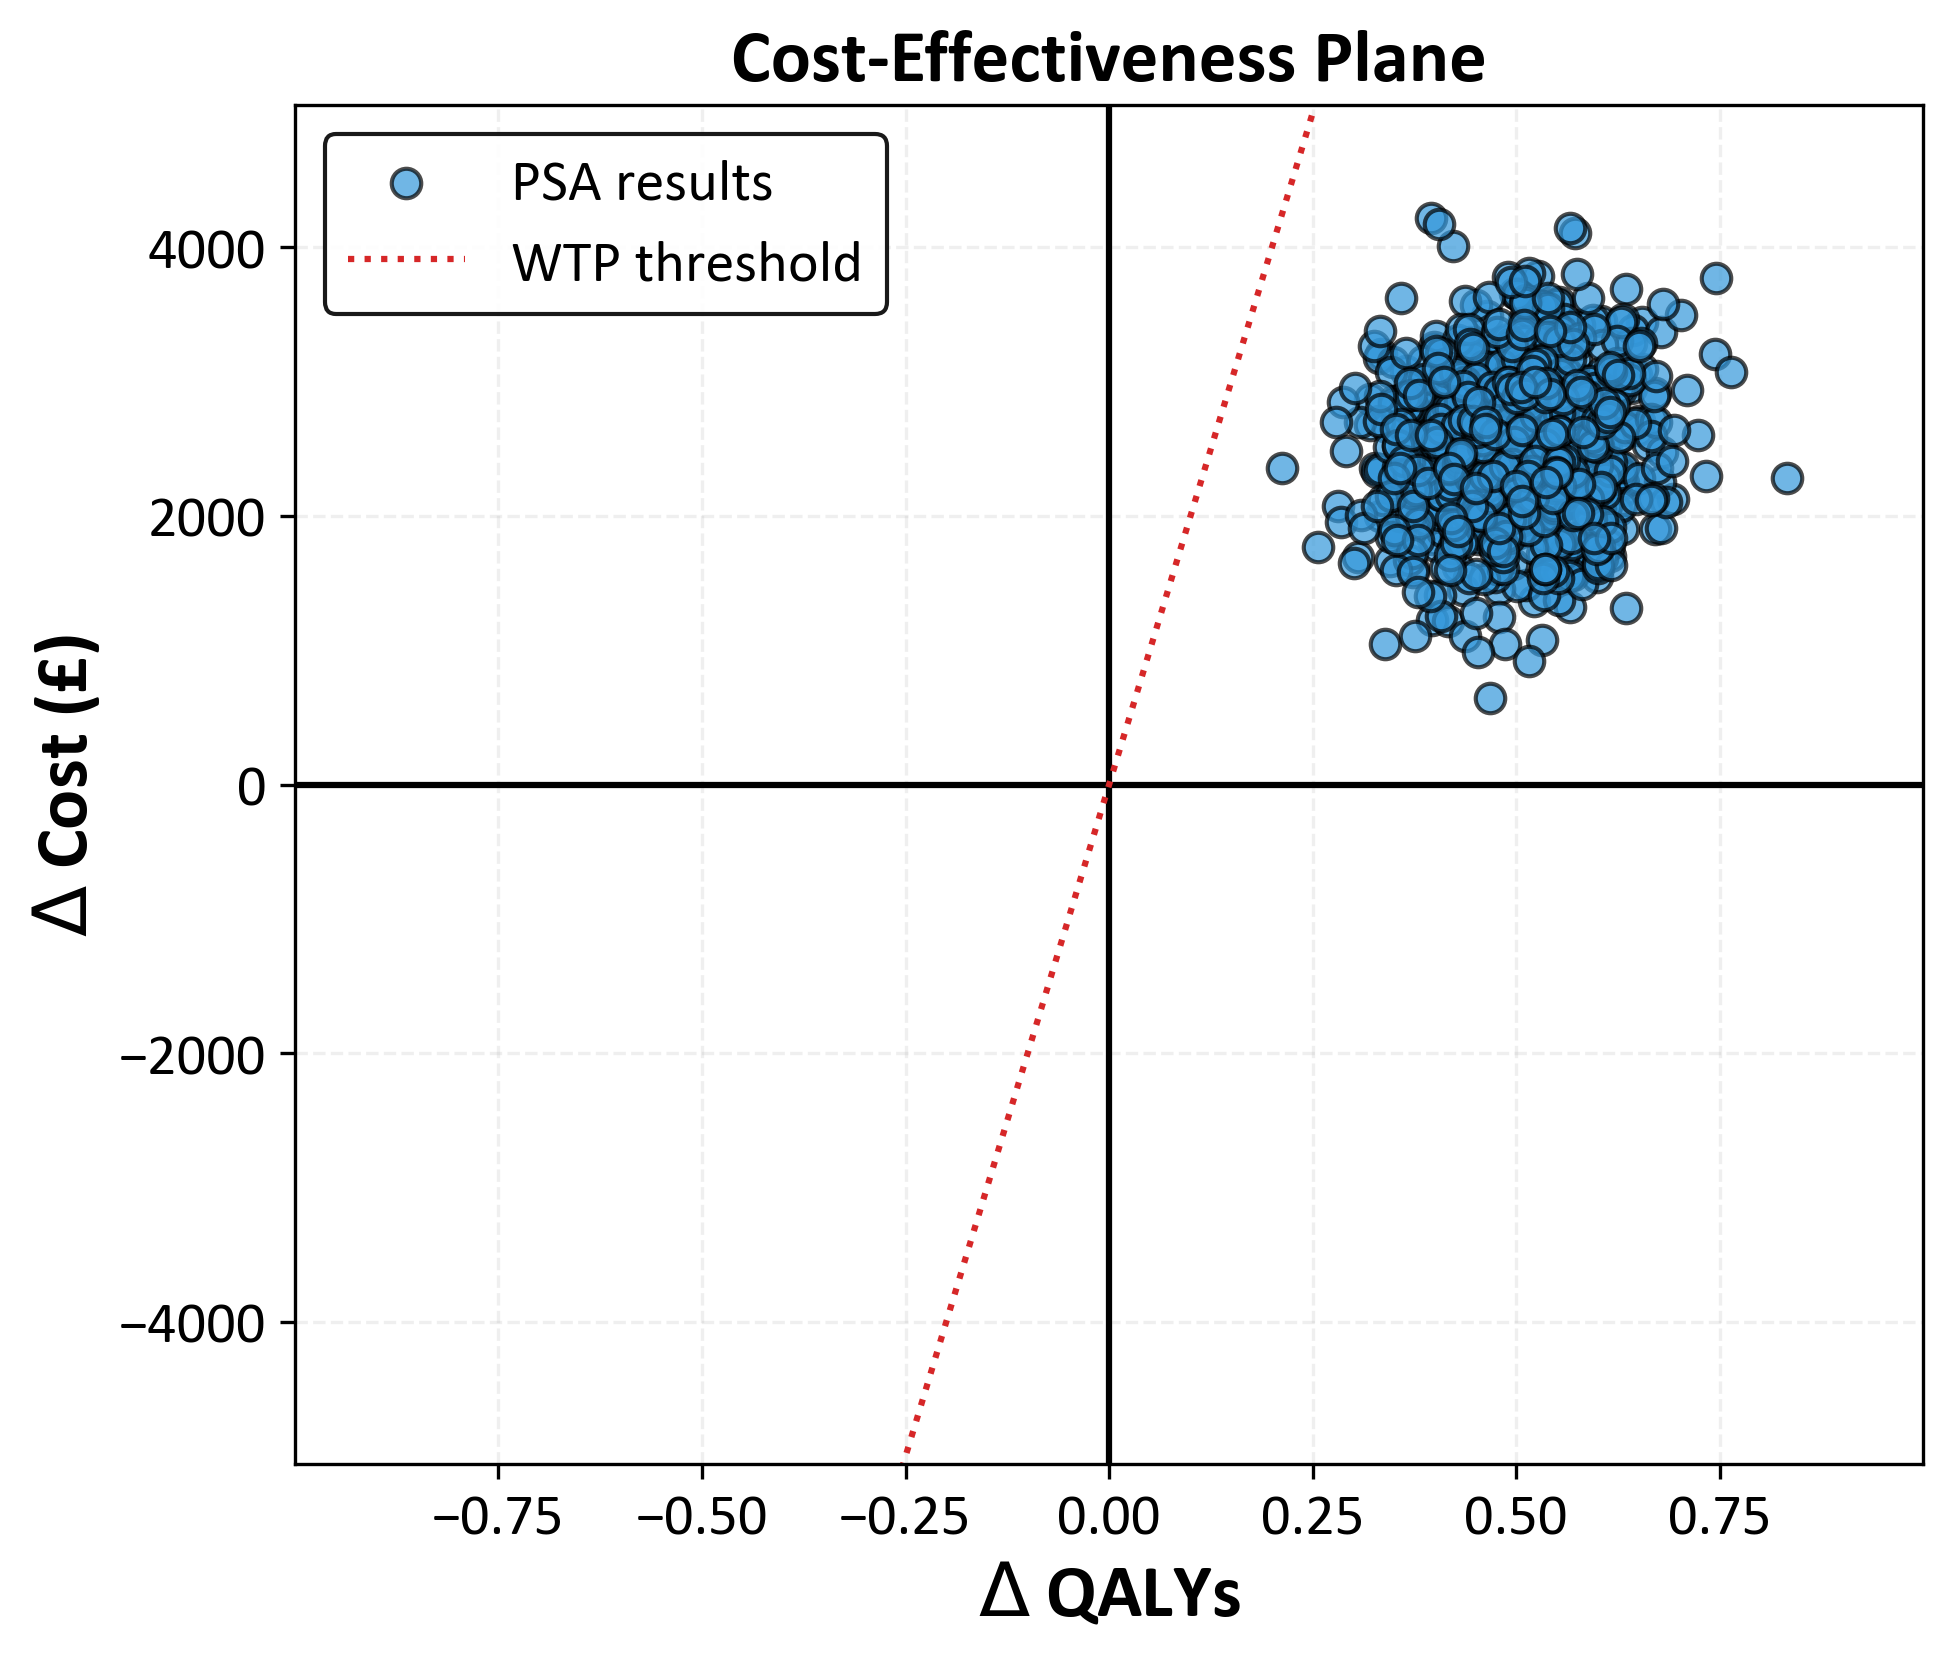
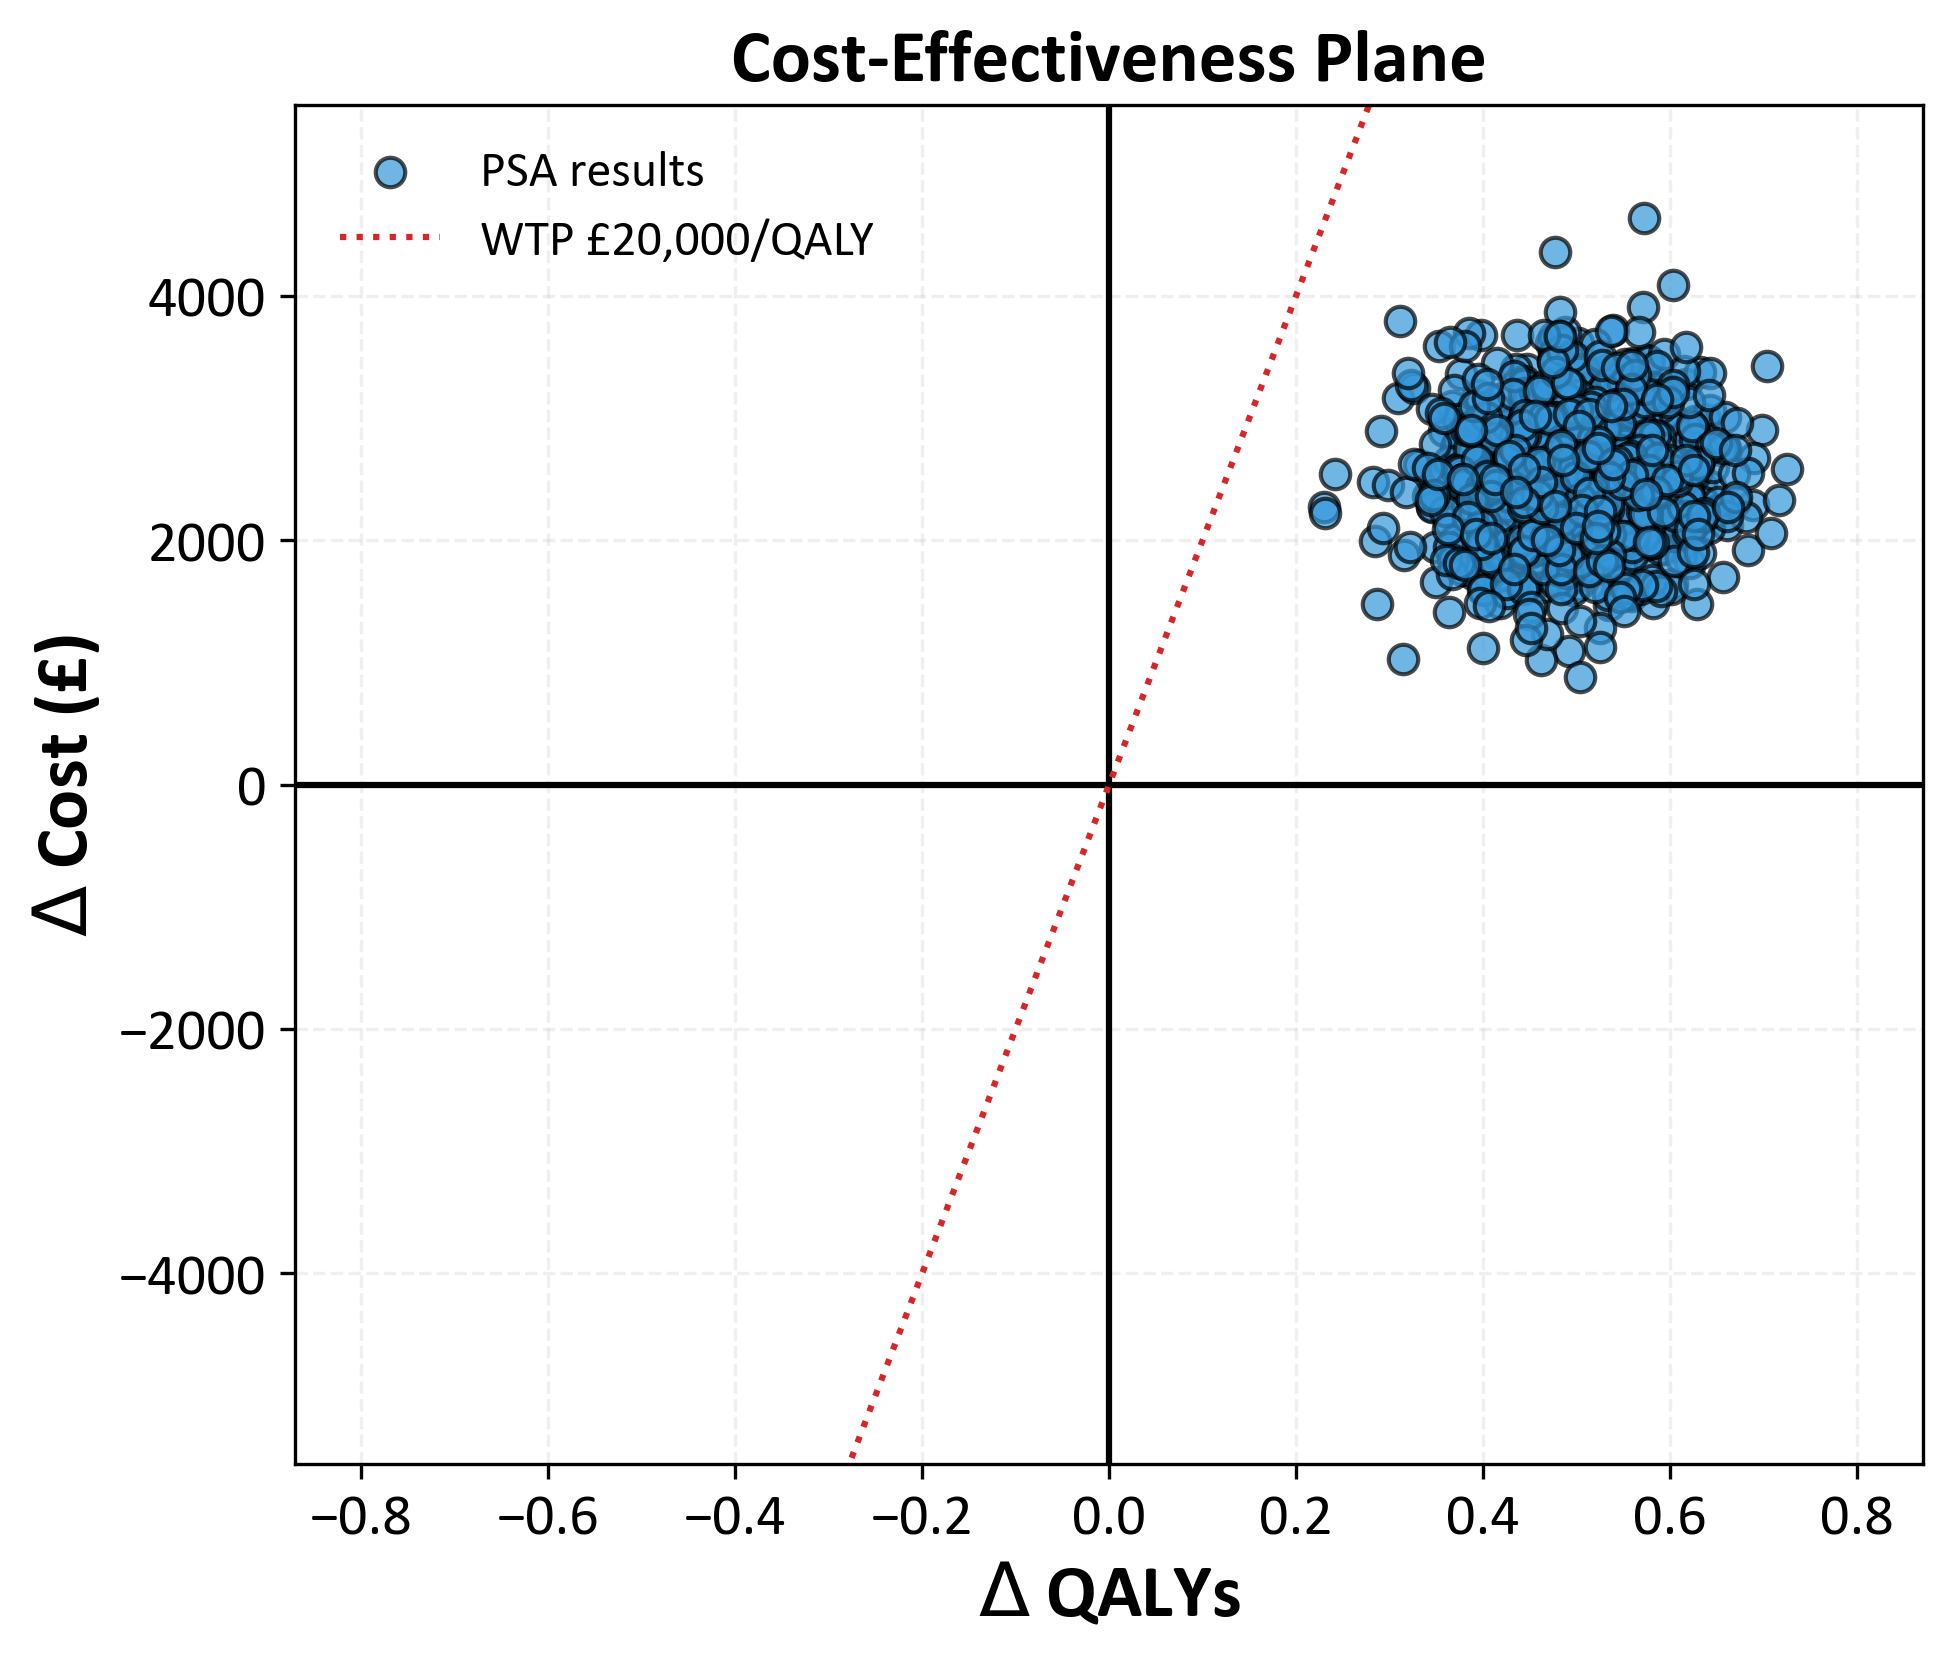
Add files via upload

diff --git a/cost_effectiveness_analysis_PSA.py b/cost_effectiveness_analysis_PSA.py
@@ -163,7 +163,7 @@ plt.axvline(0, color='black', linestyle='-')  # Vertical zero line
 # Plot WTP threshold
 x_values = [min(-5, -max(delta_qaly) * 1.2), max(5, max(delta_qaly) * 1.2)]
 y_values = [x * wtp for x in x_values]
-plt.plot(x_values, y_values, color='#d62728', linestyle=':', label='WTP threshold')
+plt.plot(x_values, y_values, color='#d62728', linestyle=':', label=f'WTP £{wtp:,.0f}/QALY')
 
 # Formatting plot
 plt.xlim(-max(delta_qaly) * 1.2, max(delta_qaly) * 1.2)
@@ -173,7 +173,7 @@ plt.yticks(fontsize=14)
 plt.xlabel(r'$\Delta$ QALYs', fontsize=18, fontweight='bold')
 plt.ylabel(r'$\Delta$ Cost (£)', fontsize=18, fontweight='bold')
 plt.title('Cost-Effectiveness Plane', fontsize=18, fontweight='bold')
-plt.legend(loc='upper left', fontsize=14, frameon=True, framealpha=0.9, edgecolor='k')
+plt.legend(loc='upper left', fontsize=12, frameon=False, framealpha=0.1)
 plt.grid(True, linestyle='--', alpha=0.2)
 # Save the figure
 plt.savefig(save_folder + 'CE_plane_PSA.png', dpi=300, bbox_inches='tight')
